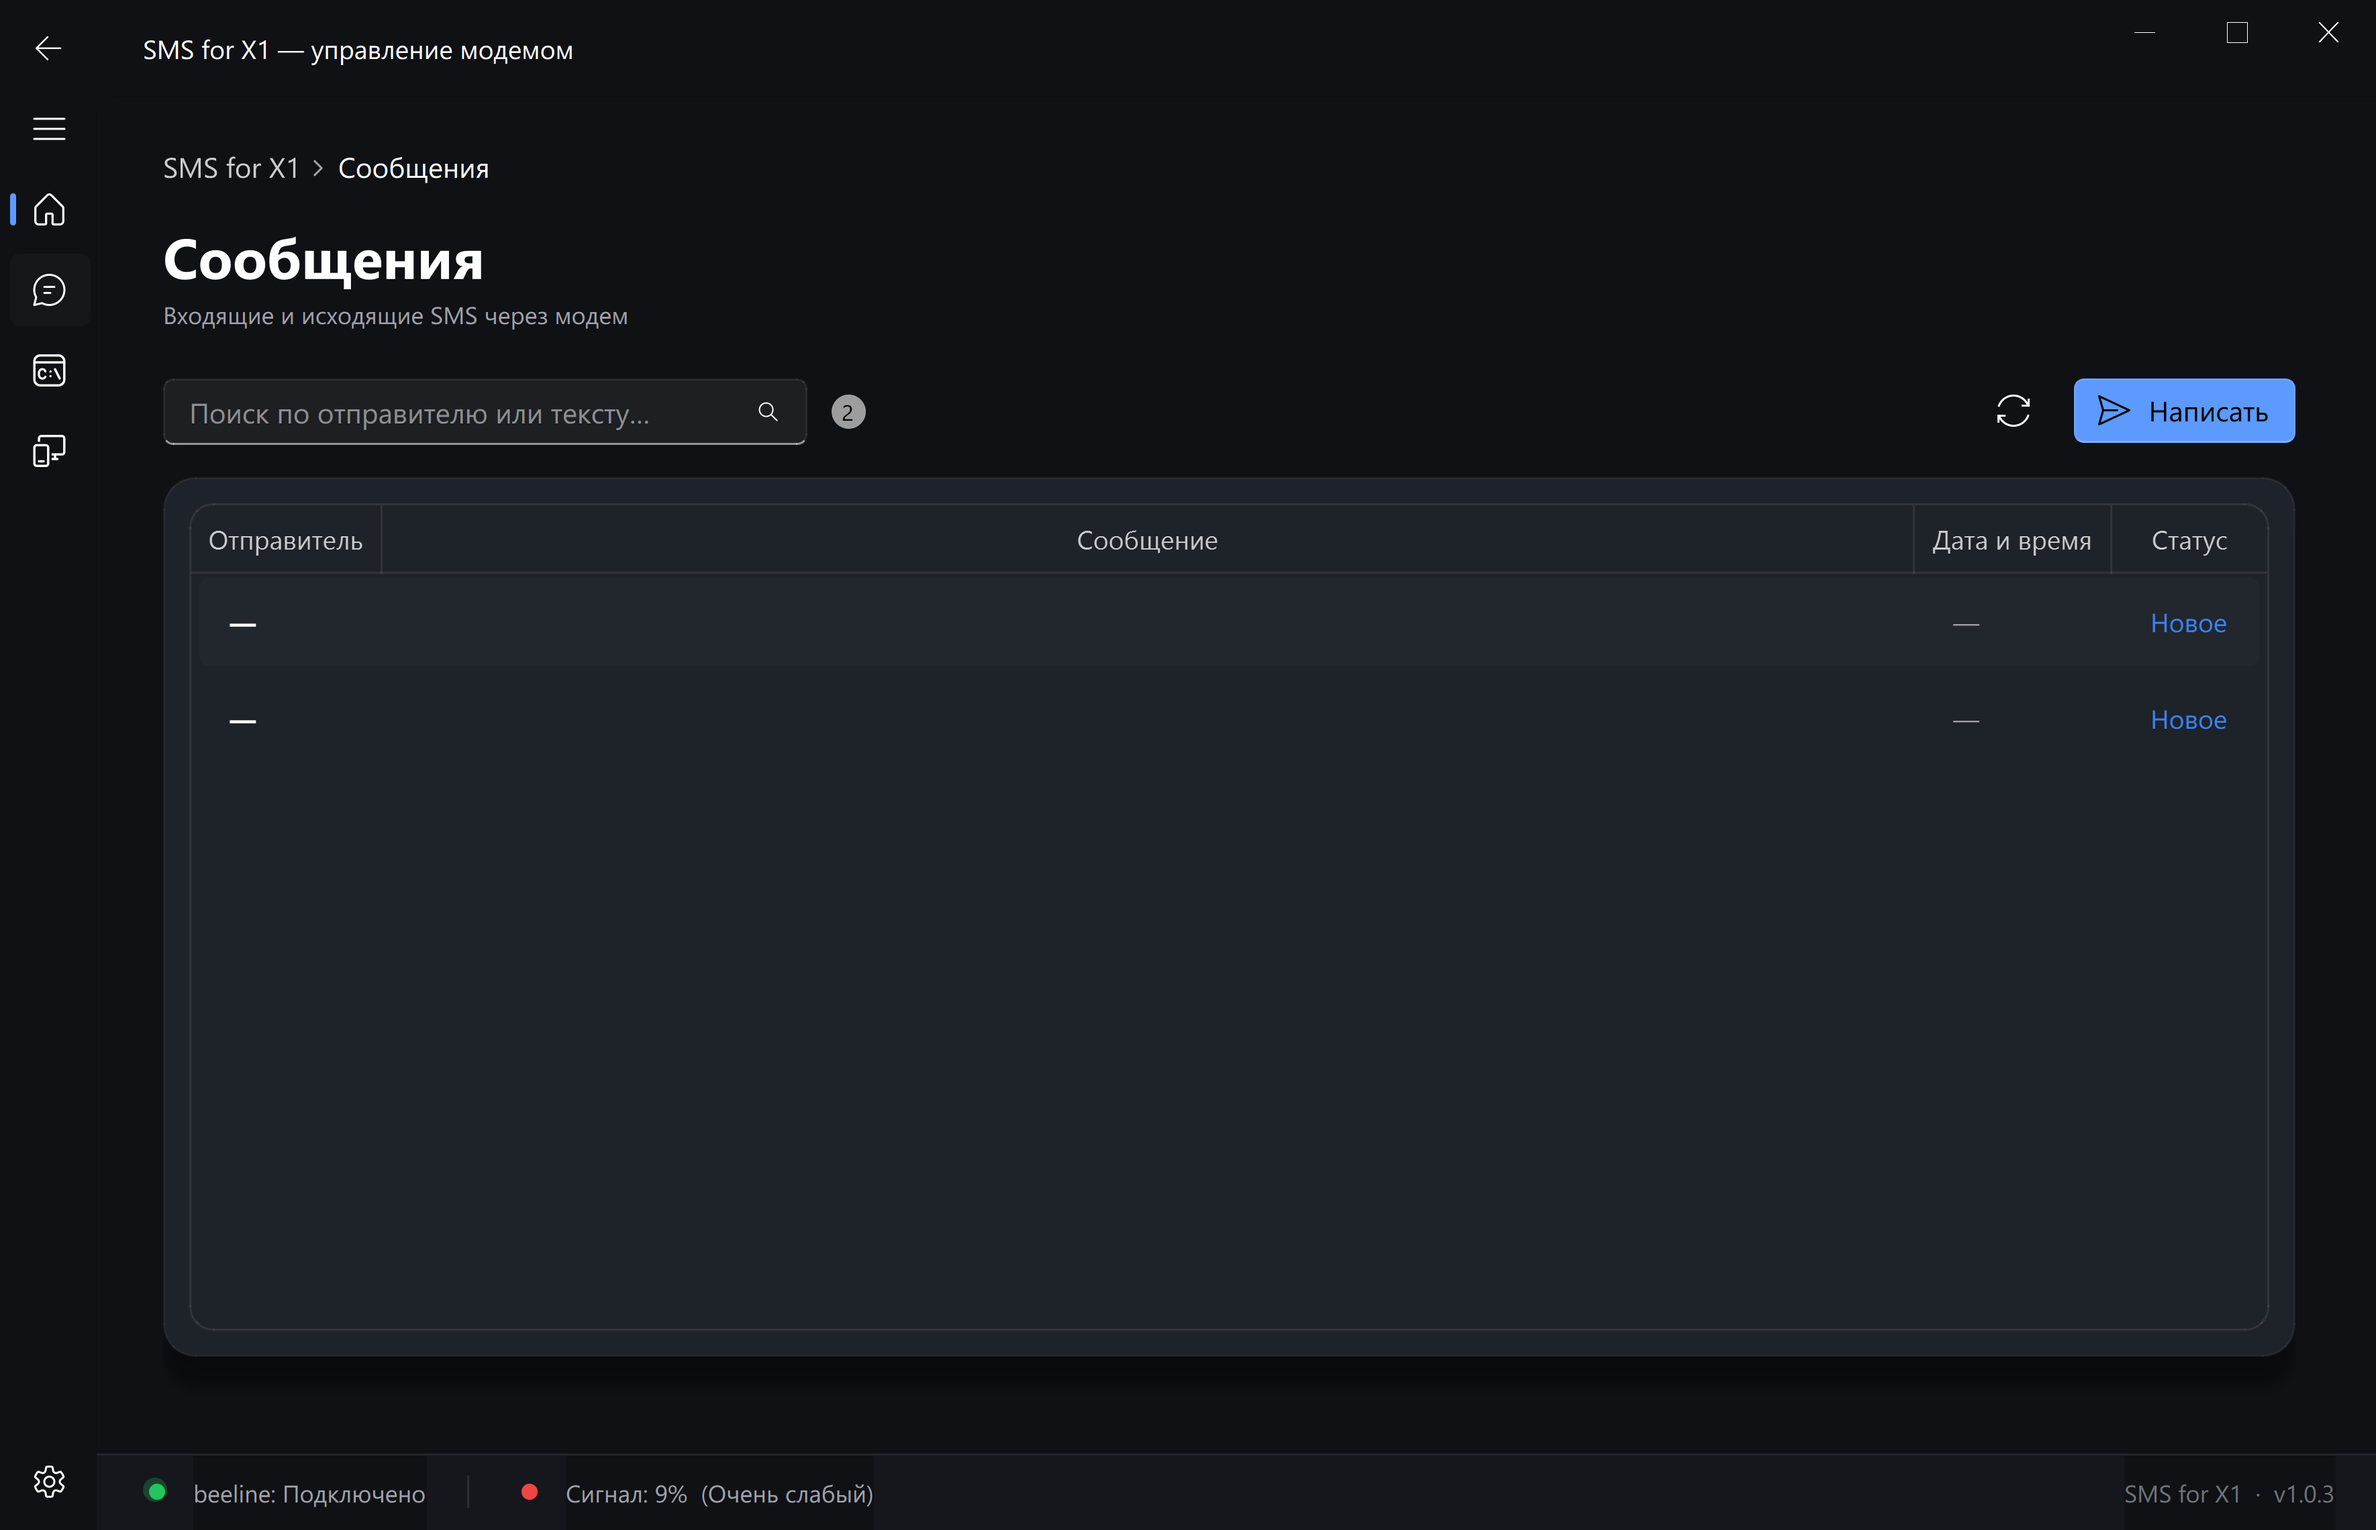
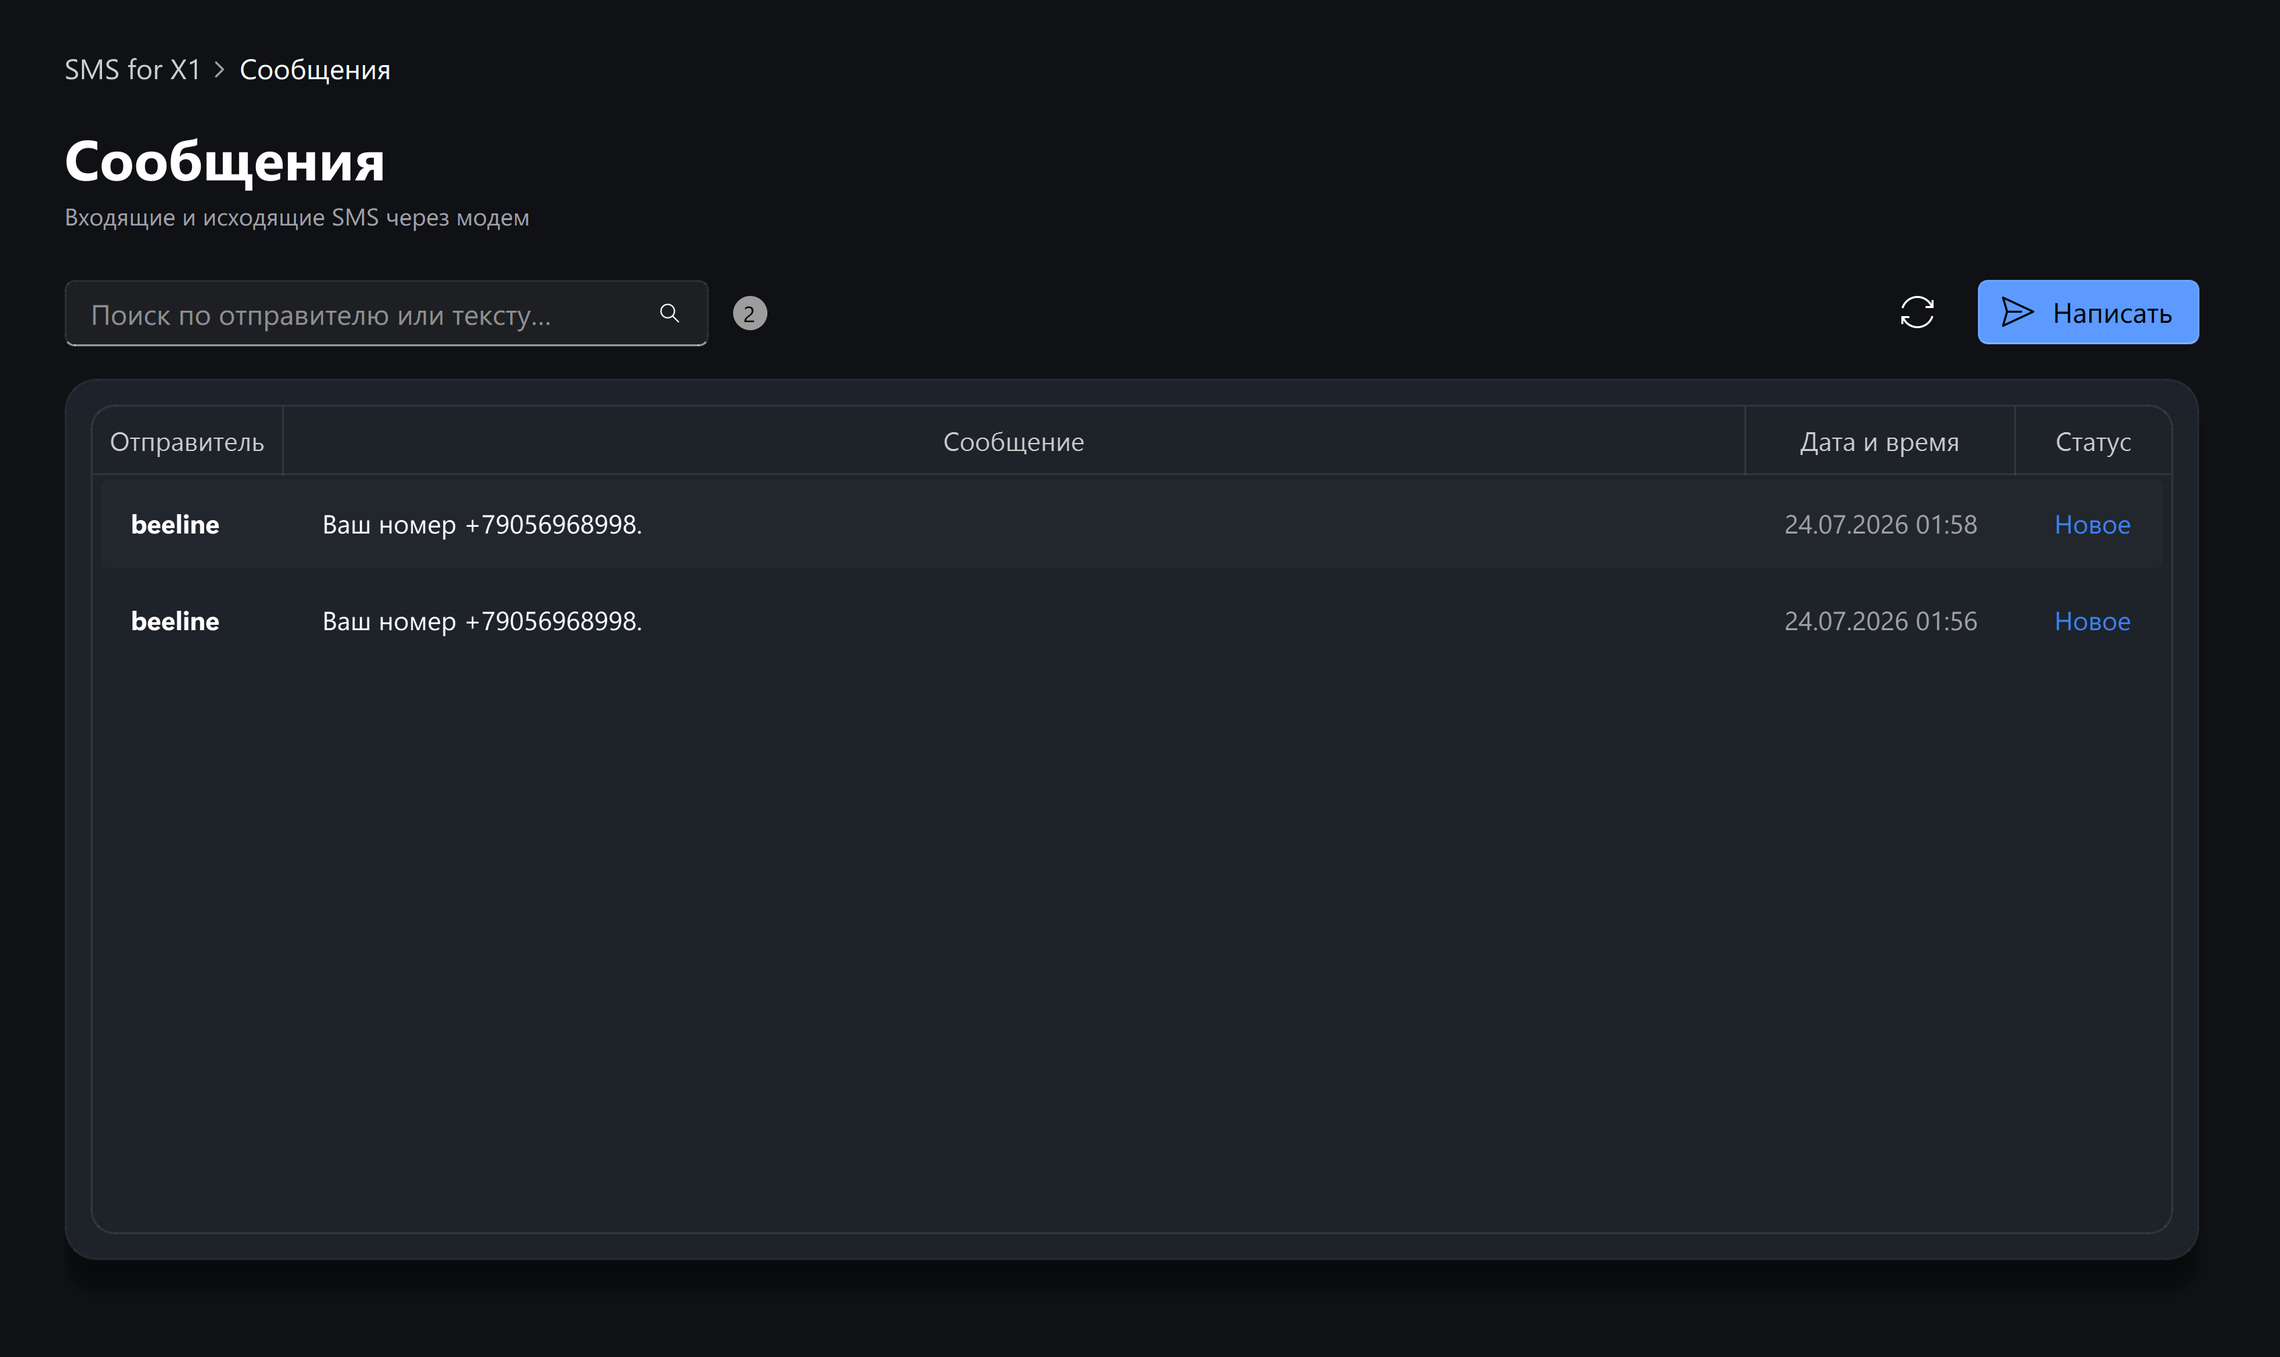
v1.0.4 — SMS полностью работают (разбор PDU)
Модем в MBIM отдаёт SMS как SmsBinaryMessage (сырой PDU). Реализован
парсер SMS-DELIVER (3GPP TS 23.040):
- приведение ISmsMessage -> SmsBinaryMessage (_from), get_data() -> PDU
- декодирование адреса отправителя (алфавитный GSM7 / числовой)
- разбор TP-SCTS (время) и TP-UD (GSM7 / 8-bit / UCS2)
- устойчивый обход SMS-устройств (пропуск пустых id — на них висло чтение)

Проверено на реальном модеме: прочитаны 2 SMS от 'beeline' с корректным
текстом, отправителем и временем.

diff --git a/smsx1/core/sms_service.py b/smsx1/core/sms_service.py
@@ -11,12 +11,14 @@ from datetime import datetime, timezone
 from typing import Optional
 
 from .models import SmsDirection, SmsMessage, OpResult
+from .pdu import parse_deliver
 
 try:
     from winsdk.windows.devices.sms import (
         SmsDevice,
         SmsMessageFilter,
         SmsTextMessage,
+        SmsBinaryMessage,
     )
     from winsdk.windows.devices.enumeration import DeviceInformation
     _WINRT_OK = True
@@ -76,36 +78,45 @@ class SmsService:
         return await asyncio.wait_for(coro, timeout)
 
     # ── реализация ───────────────────────────────────────────────────────────
-    async def _open_device(self):
+    async def _devices(self):
         selector = SmsDevice.get_device_selector()
         # 2-арг перегрузка (aqsFilter, additionalProperties) — иначе winsdk
         # ошибочно выбирает find_all_async(DeviceClass:int) и падает на строке.
         try:
-            devices = await DeviceInformation.find_all_async(selector, [])
+            return await DeviceInformation.find_all_async(selector, [])
         except TypeError:
-            devices = await DeviceInformation.find_all_async(selector)
-        last = None
-        for info in devices:
+            return await DeviceInformation.find_all_async(selector)
+
+    async def _open_device(self):
+        """Открыть первое пригодное SMS-устройство (пропуская пустые id —
+        именно на них зависало чтение)."""
+        for info in await self._devices():
+            if not info.id:
+                continue
             try:
                 dev = await SmsDevice.from_id_async(info.id)
-                if dev is not None:
-                    return dev
-            except Exception as exc:  # часть селекторов не открывается
-                last = exc
+            except Exception:
                 continue
-        if last:
-            raise last
+            if dev is not None:
+                return dev
         raise RuntimeError("SMS-устройство не найдено")
 
     async def _read_all_async(self) -> list[SmsMessage]:
-        dev = await self._open_device()
-        store = dev.message_store
-        raw = await store.get_messages_async(SmsMessageFilter.ALL)
-        result: list[SmsMessage] = []
-        for m in raw:
-            result.append(self._convert(m))
-        result.sort(key=lambda x: x.timestamp or datetime.min, reverse=True)
-        return result
+        # перебираем устройства: берём сообщения с первого, что ответит
+        for info in await self._devices():
+            if not info.id:
+                continue
+            try:
+                dev = await SmsDevice.from_id_async(info.id)
+                if dev is None:
+                    continue
+                raw = await dev.message_store.get_messages_async(SmsMessageFilter.ALL)
+            except Exception:
+                continue
+            result = [self._convert(m) for m in raw]
+            result.sort(key=lambda x: x.timestamp or datetime.min, reverse=True)
+            return result
+        return []
 
     async def _send_async(self, number: str, text: str) -> OpResult:
         dev = await self._open_device()
@@ -129,20 +140,37 @@ class SmsService:
 
     # ── конвертация WinRT → модель ───────────────────────────────────────────
     def _convert(self, m) -> SmsMessage:
-        tm = getattr(m, "text_message", None) or m
-        sender = self._safe(lambda: tm.from_) or self._safe(lambda: tm.to) or "—"
-        body = self._safe(lambda: tm.body) or ""
-        ts = self._parse_ts(self._safe(lambda: tm.timestamp))
         mid = str(self._safe(lambda: m.id) or "")
-        is_read = bool(self._safe(lambda: m.is_read))
-        return SmsMessage(
-            id=mid,
-            sender=str(sender),
-            body=str(body),
-            timestamp=ts,
-            direction=SmsDirection.INCOMING,
-            is_read=is_read,
-        )
+
+        # 1) текстовое сообщение (если модем отдаёт готовый текст)
+        try:
+            tm = SmsTextMessage._from(m)
+            return SmsMessage(
+                id=mid,
+                sender=str(self._safe(lambda: tm.from_) or "—"),
+                body=str(self._safe(lambda: tm.body) or ""),
+                timestamp=self._parse_ts(self._safe(lambda: tm.timestamp)),
+                direction=SmsDirection.INCOMING,
+            )
+        except Exception:
+            pass
+
+        # 2) бинарное — сырой PDU (обычный случай для MBIM-модемов)
+        try:
+            bm = SmsBinaryMessage._from(m)
+            data = bytes(bm.get_data())
+            pdu = parse_deliver(data.hex())
+            return SmsMessage(
+                id=mid,
+                sender=pdu.sender or "—",
+                body=pdu.body,
+                timestamp=pdu.timestamp,
+                direction=SmsDirection.INCOMING,
+            )
+        except Exception as exc:
+            return SmsMessage(id=mid, sender="—",
+                              body=f"(не удалось декодировать SMS: {exc})",
+                              direction=SmsDirection.INCOMING)
 
     @staticmethod
     def _safe(fn):

diff --git a/smsx1/core/pdu.py b/smsx1/core/pdu.py
@@ -1,0 +1,129 @@
+"""Разбор SMS-PDU (формат SMS-DELIVER, 3GPP TS 23.040).
+
+Модем в MBIM-режиме отдаёт SMS как бинарные сообщения (SmsBinaryMessage) —
+сырой PDU. Здесь он парсится в отправителя, время и текст (GSM7/8bit/UCS2).
+"""
+from __future__ import annotations
+
+from dataclasses import dataclass
+from datetime import datetime, timedelta, timezone
+from typing import Optional
+
+# Базовый алфавит GSM 03.38
+_GSM7 = ("@£$¥èéùìòÇ\nØø\rÅåΔ_ΦΓΛΩΠΨΣΘΞ\x1bÆæßÉ !\"#¤%&'()*+,-./0123456789:;<=>?"
+         "¡ABCDEFGHIJKLMNOPQRSTUVWXYZÄÖÑÜ§¿abcdefghijklmnopqrstuvwxyzäöñüà")
+
+
+@dataclass
+class Pdu:
+    sender: str = ""
+    body: str = ""
+    timestamp: Optional[datetime] = None
+    dcs: int = 0
+
+
+def gsm7_unpack(data: bytes, septet_count: Optional[int] = None) -> str:
+    """Распаковать упакованные 7-битные септеты в текст."""
+    septets, bits, cur = [], 0, 0
+    for byte in data:
+        cur |= byte << bits
+        bits += 7 if False else 8
+        while bits >= 7:
+            septets.append(cur & 0x7F)
+            cur >>= 7
+            bits -= 7
+    if septet_count is not None:
+        septets = septets[:septet_count]
+    out, i = [], 0
+    while i < len(septets):
+        s = septets[i]
+        if s == 0x1B and i + 1 < len(septets):
+            i += 1
+            out.append(" ")
+        elif s < len(_GSM7):
+            out.append(_GSM7[s])
+        i += 1
+    return "".join(out)
+
+
+def _decode_address(type_octet: int, addr_bytes: bytes, num_semi_octets: int) -> str:
+    ton = (type_octet >> 4) & 0x07
+    if ton == 0x05:  # алфавитно-цифровой (напр. "Beeline")
+        # длина в семи-октетах = num_semi_octets*4/7 символов
+        n_sept = (num_semi_octets * 4) // 7
+        return gsm7_unpack(addr_bytes, n_sept).strip()
+    # числовой: развёрнутые нибблы
+    digits = []
+    for b in addr_bytes:
+        digits.append(b & 0x0F)
+        digits.append((b >> 4) & 0x0F)
+    digits = digits[:num_semi_octets]
+    num = "".join("0123456789*#abc"[d] if d < 15 else "" for d in digits)
+    if type_octet & 0x70 == 0x10:  # международный
+        num = "+" + num
+    return num
+
+
+def _decode_scts(b: bytes) -> Optional[datetime]:
+    if len(b) < 7:
+        return None
+
+    def sw(x):  # развернуть нибблы одного октета в число
+        return (x & 0x0F) * 10 + ((x >> 4) & 0x0F)
+
+    try:
+        yy = sw(b[0]); mm = sw(b[1]); dd = sw(b[2])
+        hh = sw(b[3]); mi = sw(b[4]); ss = sw(b[5])
+        tz_raw = b[6]
+        quarters = sw(tz_raw & 0x7F)
+        sign = -1 if (tz_raw & 0x08) else 1
+        tz = timezone(sign * timedelta(minutes=15 * quarters))
+        year = 2000 + yy
+        return datetime(year, mm, dd, hh, mi, ss, tzinfo=tz)
+    except Exception:
+        return None
+
+
+def _decode_ud(dcs: int, udl: int, ud: bytes, udhi: bool) -> str:
+    # пропустить UDH при наличии
+    if udhi and ud:
+        udh_len = ud[0]
+        ud = ud[1 + udh_len:]
+    # UCS2
+    if dcs == 0x08 or (dcs & 0x0C) == 0x08:
+        try:
+            return ud.decode("utf-16-be", errors="replace")
+        except Exception:
+            return ""
+    # 8-bit
+    if (dcs & 0x0C) == 0x04:
+        return ud.decode("latin-1", errors="replace")
+    # GSM 7-bit
+    return gsm7_unpack(ud, udl)
+
+
+def parse_deliver(pdu_hex: str) -> Pdu:
+    """Разобрать SMS-DELIVER PDU (hex-строка) в Pdu."""
+    b = bytes.fromhex(pdu_hex.strip())
+    i = 0
+    # SMSC
+    smsc_len = b[i]; i += 1 + smsc_len
+    first = b[i]; i += 1
+    udhi = bool(first & 0x40)
+    # TP-OA
+    oa_len = b[i]; i += 1               # длина адреса в семи-октетах (цифрах)
+    oa_type = b[i]; i += 1
+    oa_octets = (oa_len + 1) // 2 if ((oa_type >> 4) & 0x07) != 0x05 else (oa_len * 4 + 7) // 8
+    oa = b[i:i + oa_octets]; i += oa_octets
+    sender = _decode_address(oa_type, oa, oa_len)
+    # TP-PID, TP-DCS
+    i += 1                               # PID
+    dcs = b[i]; i += 1
+    # TP-SCTS
+    scts = b[i:i + 7]; i += 7
+    ts = _decode_scts(scts)
+    # TP-UDL + UD
+    udl = b[i]; i += 1
+    ud = b[i:]
+    body = _decode_ud(dcs, udl, ud, udhi)
+    return Pdu(sender=sender, body=body.strip(), timestamp=ts, dcs=dcs)

diff --git a/smsx1/__init__.py b/smsx1/__init__.py
@@ -21,6 +21,6 @@ if _sys.stdout is None:
 if _sys.stderr is None:
     _sys.stderr = _io.StringIO()
 
-__version__ = "1.0.3"
+__version__ = "1.0.4"
 __app_name__ = "SMS for X1"
 __author__ = "SMS for X1"
